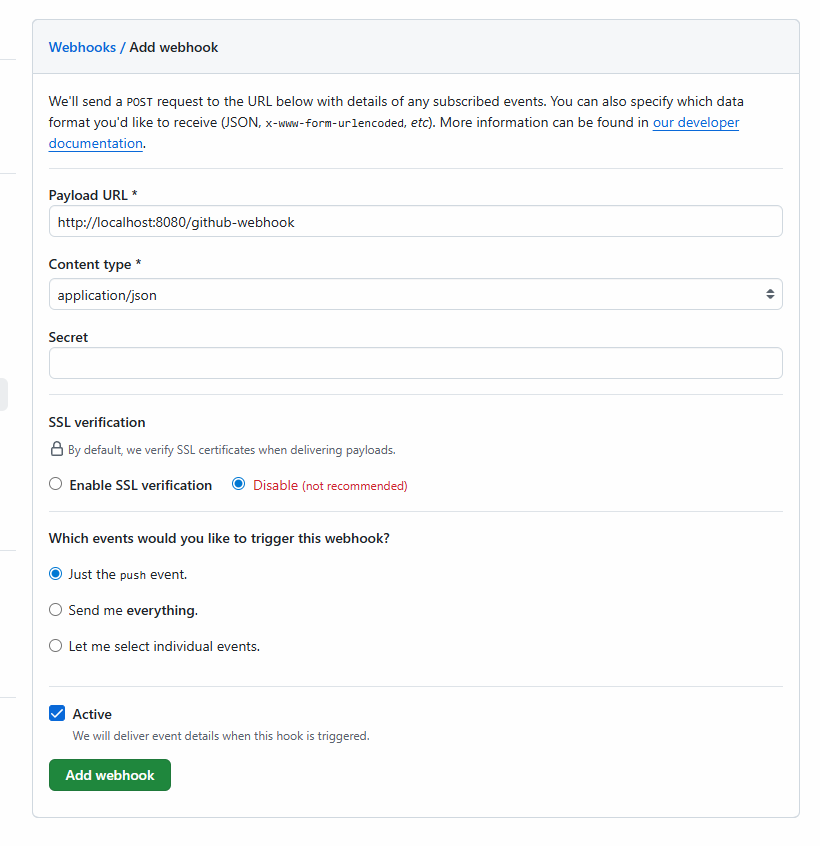
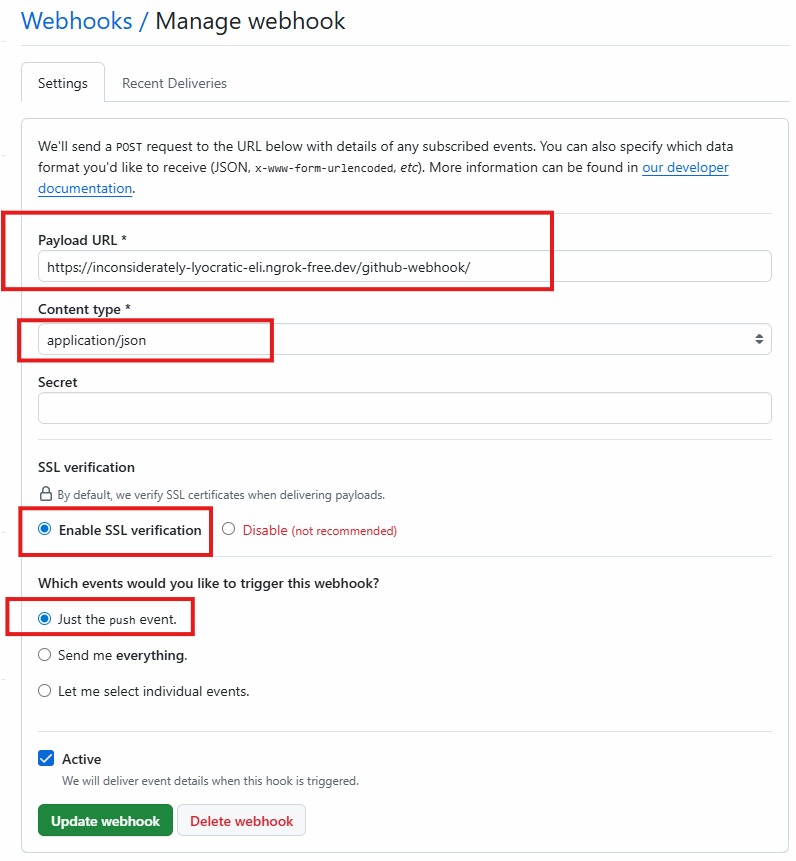
advanced Jenkins

diff --git a/Session-15-web-automation/pandas/pandas-demo.py b/Session-15-web-automation/pandas/pandas-demo.py
@@ -3,3 +3,21 @@ import pandas as pd
 df= pd.read_csv("sample.csv")
 print(df) # dataframe provided by pandas library
 print(df.head()) # load first five data
+
+# sorting 
+print("-------------------Ascending Sort--------------------------------")
+sorted_df= df.sort_values(by="price") #ascending
+print(sorted_df)
+print("-------------------Descending Sort--------------------------------")
+sorted_df= df.sort_values(by="price",ascending=False) #descending
+print(sorted_df)
+
+print("-----------------Filtered------------------------")
+filtered= df[df['price']<20]
+print(filtered)
+
+# convert filtered Data in csv 
+filtered.to_csv('under_twenty.csv',index=False)
+print("-----------------Average------------------")
+print("Average price: ",df['price'].mean())
+print("Average price: ",df['rating'].mean())

diff --git a/Session-15-web-automation/pandas/numpy-demo.py b/Session-15-web-automation/pandas/numpy-demo.py
@@ -1,0 +1,16 @@
+import numpy as np 
+
+arr1= np.array([1,2,3,4,5])
+print(arr1)
+
+print("sum: ",np.sum(arr1))
+print("Mean: ",np.mean(arr1))
+print("Min: ",np.min(arr1))
+print("Max: ",np.max(arr1))
+print("std: ",np.std(arr1))
+
+arr2=np.array([[1,2,3],[4,5,6]])
+print(arr2)
+
+arr3=arr2.reshape(3,2)
+print(arr3)

diff --git a/Session-19-Jenkins-intro/free-style-project.md b/Session-19-Jenkins-intro/free-style-project.md
@@ -52,6 +52,55 @@
 
 - save your Job
 
+**as jenkins running on lcaolhost we will use ngrok to expose jenkins**
+
+[Create Account on NgRok](https://dashboard.ngrok.com/signup)
+- join with google
+- choose developer
+- choose as student
+- once accountb created successfully your can see one token to set auth from your system
+
+```bash
+# install ngrok 
+curl -sSL https://ngrok-agent.s3.amazonaws.com/ngrok.asc \
+  | sudo tee /etc/apt/trusted.gpg.d/ngrok.asc >/dev/null \
+  && echo "deb https://ngrok-agent.s3.amazonaws.com bookworm main" \
+  | sudo tee /etc/apt/sources.list.d/ngrok.list \
+  && sudo apt update \
+  && sudo apt install ngrok
+
+ngrok config add-authtoken <your_token_which_visible_browser>
+
+ngrok http 8080
+
+```
+![Ngrok Forwarding](images/ngrok-forwad.png)
+
 ## Configure Webhook in Repository
 
 ![WebHook Configuration](images/webhook.png)
+
+- https://ngrok_generated_url/github-webhook/
+
+![Hook Ping Response](images/hook-ping.png)
+
+- If Ping done success then try to push something on repo
+
+- it automatically triggers build for jenkins project and you can see build started.
+
+### Schedule
+
+- * * * * *
+- 1* - minutes [0-59]
+- 2* - Hour [0-23]
+- 3* - Day of Month [1-31]
+- 4* - Month [1-12]
+- 5* - Day of Week (0-7) [0-7 both sunday]
+
+- 30 14 * * * [everyday at 2:30]
+
+**While working with jenkins we use H**
+
+- jenkins Hash value(spread jobs to reduce server load)
+- H 2 * * * [daily at 2 AM]
+- H/5 * * * * [every 5 minutes]

diff --git a/Session-11-Adv bash,Cloud/rules/flags.md b/Session-11-Adv bash,Cloud/rules/flags.md
@@ -1,0 +1,35 @@
+# Flags
+
+- -e stops script if any command fails
+```bash
+#!/bin/bash
+
+set -e #EXIT ON ERROR 
+
+echo "starting script"
+rm /tmp/non-exist-file # this command will fail
+```
+
+- -u stop if you use an undefined variable
+```bash
+#!/bin/bash
+set -u # undefined variable = error
+
+echo "file-deleted"
+echo "User is $USERNAME"
+```
+
+- -o pipefail fail a pipe if any command in it fails
+
+```bash
+#!/bin/bash
+set -o pipefail # pipeline fails if any command fails
+
+grep "ERROR" app.log | wc -l
+echo "Done"
+```
+```bash
+#!/bin/bash
+# Using them together
+set -euo pipefail
+```

diff --git a/Session-20-Advanced-jenkins/pipeline.md b/Session-20-Advanced-jenkins/pipeline.md
@@ -95,3 +95,29 @@ pipeline {
 }
 
 ```
+
+- Archive Artifacts add below stage in above pipeline
+
+```grrovy
+stage('Archive Artifacts') {
+            steps {
+                echo 'Publish Artifacts'
+                archiveArtifacts artifacts: 'target/*.jar', fingerprint: true
+            }
+        }
+```
+
+- click on Build now
+
+![Artifact Output](images/artifacts.png)
+
+### Email Configuration
+
+- manage jenkins -> system -> Email notification
+
+![SMTP Config](images/smtp.png)
+
+![Config 2](images/test-connection.png)
+
+- If you are able to receive email
+- save your configurations

diff --git a/Session-20-Advanced-jenkins/demo-jenkinsfile.md b/Session-20-Advanced-jenkins/demo-jenkinsfile.md
@@ -1,0 +1,24 @@
+# How to use Jenkins File in project
+
+- create a file without any extension and name it Jenkinsfile
+- you can push it to your project
+
+- create pipeline
+- select pipeline from scm
+
+![Pipeline JenkinsFile](images/pipeline.png)
+
+![FileLocation](images/script-path.png)
+
+- save and then build now
+
+## To work with Nodejs
+
+- install Nodejs plugin
+
+- configure nodeJS tool
+- manage jenkins -> tools -> scroll last -> NodejS installation (similar like maven) -> give name (NodeJS) - install automatically select version 22
+
+- save
+
+- build project

diff --git a/Session-20-Advanced-jenkins/Practice-Task.md b/Session-20-Advanced-jenkins/Practice-Task.md
@@ -1,0 +1,6 @@
+## Write pipeline for python project
+
+[Refer Link](https://github.com/sonam-niit/python-jenkins-cicd)
+
+- also, added jenkins file so if you wwant to use project script you can use
+- build and test project and check

diff --git a/Session-11-Adv bash,Cloud/rules/Task.md b/Session-11-Adv bash,Cloud/rules/Task.md
@@ -1,0 +1,8 @@
+1. Create String Manupulations Functions
+    - calculating string length
+    - substring
+    - concat string
+
+    - call them and check the output
+
+*Use Dummy code provided in PPT*
